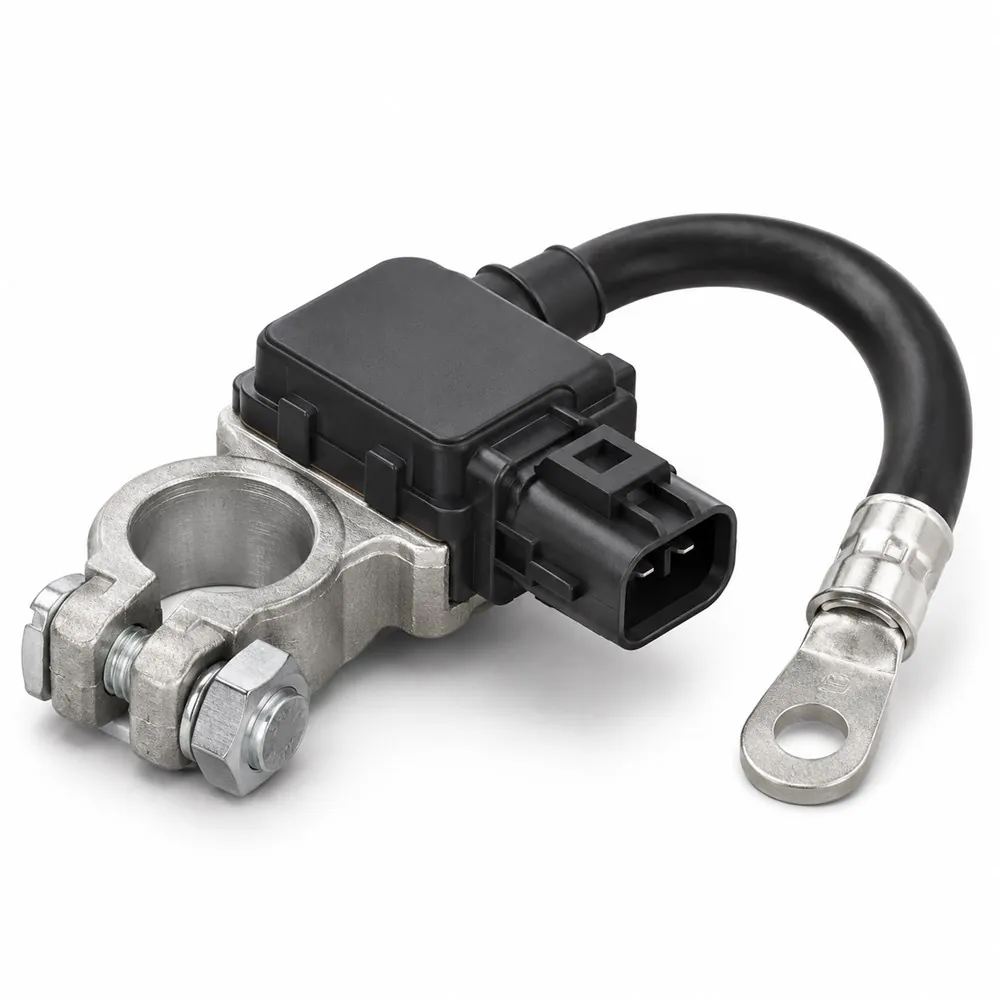
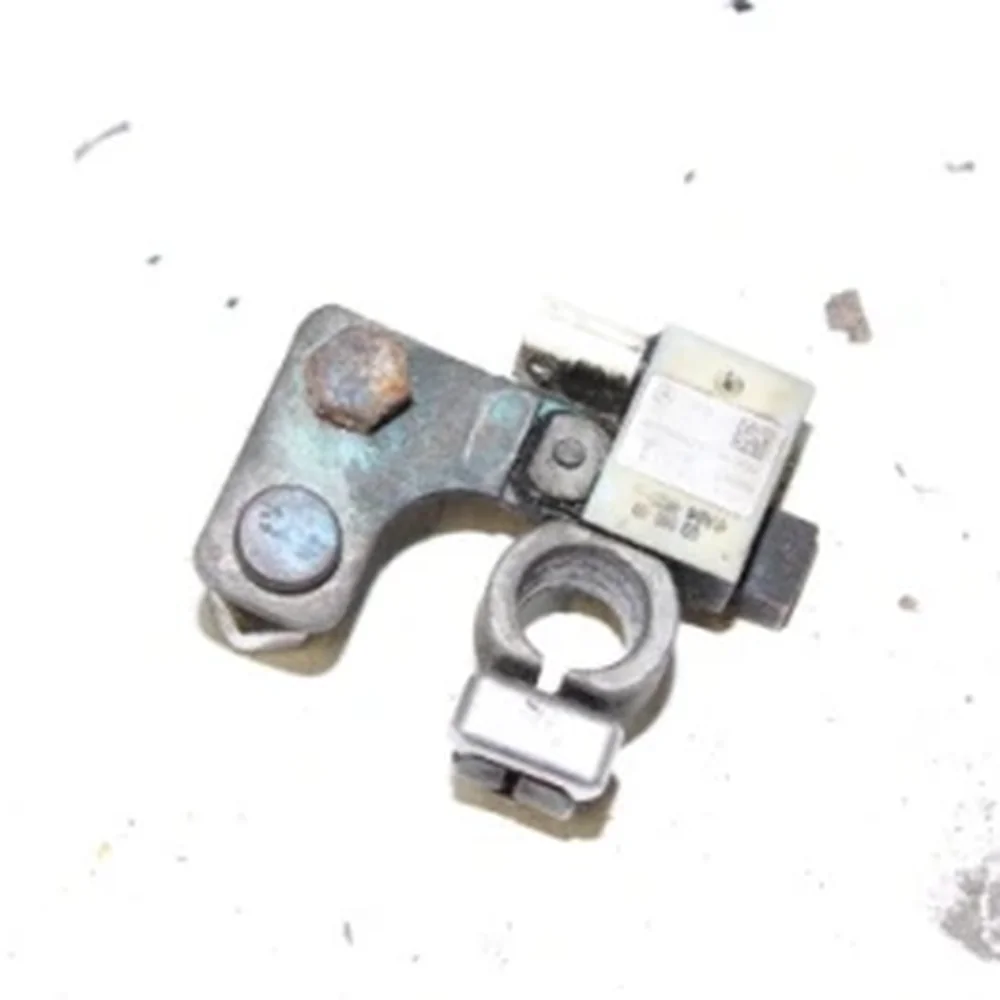
Real photos from AJ for oil spinner, battery terminal sensor and OM473 cylinder head (replace illustrations)
Claude-Session: https://claude.ai/code/session_01HuAsFdVo86aErYX3s1JDAT

diff --git a/parts/oil-separator-mp4-mp5-actros/index.html b/parts/oil-separator-mp4-mp5-actros/index.html
@@ -37,7 +37,7 @@
 <main class="wrap page">
 <nav class="crumbs" aria-label="Breadcrumb"><ol><li><a href="/">Home</a></li><li><a href="/engine/">Engine</a></li><li aria-current="page">Oil Spinner (Crankcase Oil Separator)</li></ol></nav>
 <article class="pdp">
-  <div class="pic big"><img src="/images/oil-separator-1000.webp" alt="Oil Spinner (Crankcase Oil Separator) to suit Mercedes-Benz Actros MP4 / MP5" width="1000" height="1000"><p class="illus">Illustration – actual part may vary</p></div>
+  <div class="pic big"><img src="/images/oil-separator-1000.webp" alt="Oil Spinner (Crankcase Oil Separator) to suit Mercedes-Benz Actros MP4 / MP5" width="1000" height="1000"></div>
   <div class="info">
     <h1>Oil Spinner (Crankcase Oil Separator) <small>to suit Mercedes-Benz Actros MP4 / MP5</small></h1>
     <span class="pn">OE A 471 010 01 62 · Part no. VMS-E04</span>

diff --git a/parts/battery-sensor-mp4-mp5-actros/index.html b/parts/battery-sensor-mp4-mp5-actros/index.html
@@ -37,7 +37,7 @@
 <main class="wrap page">
 <nav class="crumbs" aria-label="Breadcrumb"><ol><li><a href="/">Home</a></li><li><a href="/engine/">Engine</a></li><li aria-current="page">Battery Terminal Sensor (Negative)</li></ol></nav>
 <article class="pdp">
-  <div class="pic big"><img src="/images/battery-sensor-1000.webp" alt="Battery Terminal Sensor (Negative) to suit Mercedes-Benz Actros MP4 / MP5" width="1000" height="1000"><p class="illus">Illustration – actual part may vary</p></div>
+  <div class="pic big"><img src="/images/battery-sensor-1000.webp" alt="Battery Terminal Sensor (Negative) to suit Mercedes-Benz Actros MP4 / MP5" width="1000" height="1000"></div>
   <div class="info">
     <h1>Battery Terminal Sensor (Negative) <small>to suit Mercedes-Benz Actros MP4 / MP5</small></h1>
     <span class="pn">OE A 012 542 62 18 · Part no. VMS-E05</span>

diff --git a/parts/cylinder-head-om473-mp4-mp5-actros/index.html b/parts/cylinder-head-om473-mp4-mp5-actros/index.html
@@ -37,7 +37,7 @@
 <main class="wrap page">
 <nav class="crumbs" aria-label="Breadcrumb"><ol><li><a href="/">Home</a></li><li><a href="/engine/">Engine</a></li><li aria-current="page">Cylinder Head (OM473)</li></ol></nav>
 <article class="pdp">
-  <div class="pic big"><img src="/images/cylinder-head-om473-1000.webp" alt="Cylinder Head (OM473) to suit Mercedes-Benz Actros MP4 / MP5" width="1000" height="1000"><p class="illus">Illustration – actual part may vary</p></div>
+  <div class="pic big"><img src="/images/cylinder-head-om473-1000.webp" alt="Cylinder Head (OM473) to suit Mercedes-Benz Actros MP4 / MP5" width="1000" height="1000"></div>
   <div class="info">
     <h1>Cylinder Head (OM473) <small>to suit Mercedes-Benz Actros MP4 / MP5</small></h1>
     <span class="pn">OE A 473 010 14 20 · Part no. VMS-E03</span>
